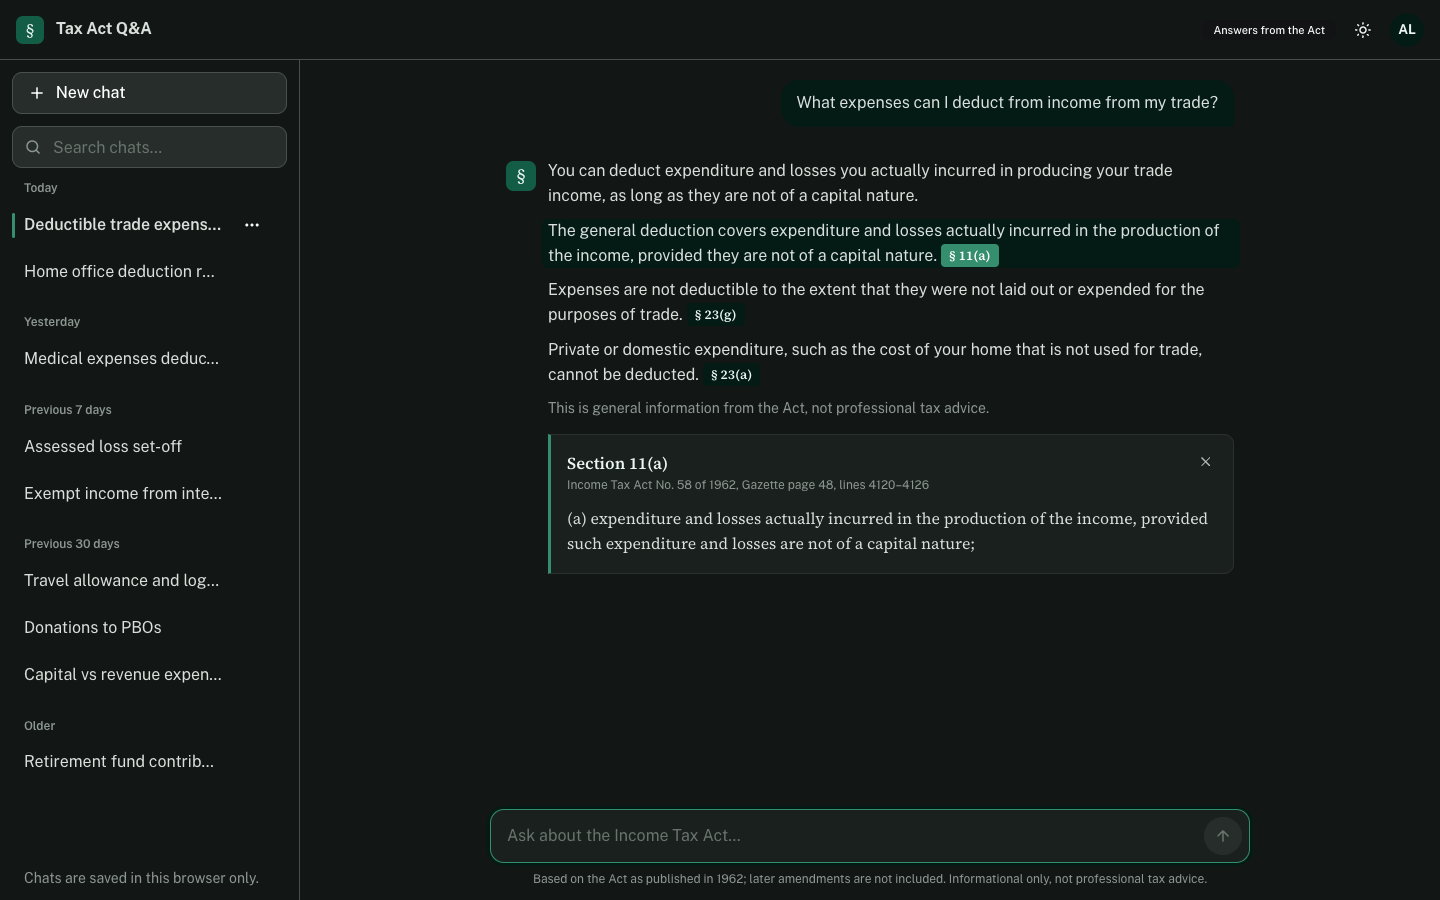
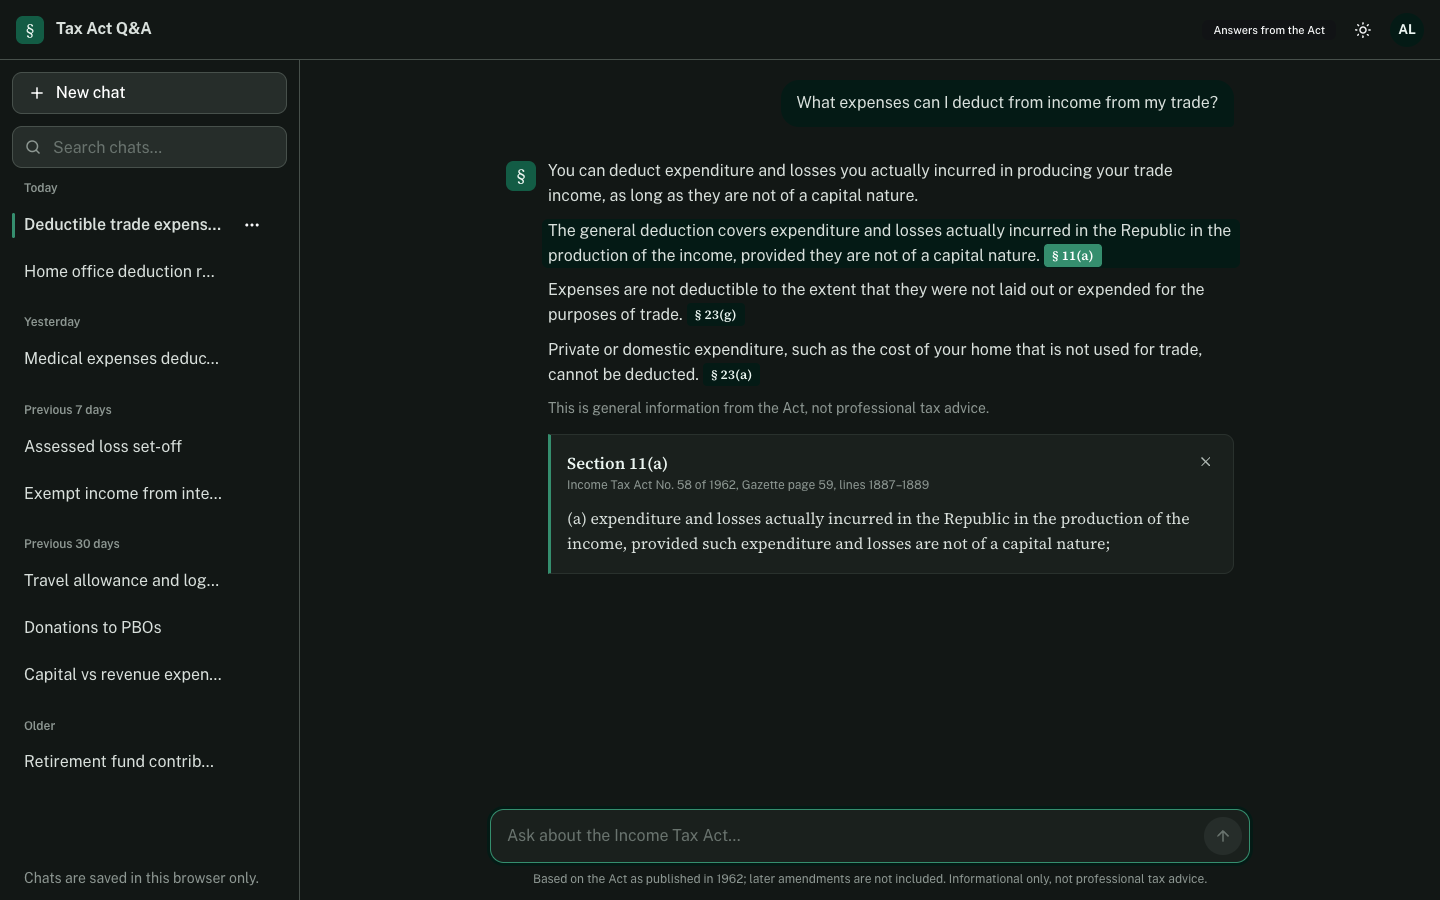
Quote section 11(a) as published in 1962
The login page quoted today's amended wording of the general deduction
formula; the app answers from the Act as published in 1962, which reads
"actually incurred in the Republic in the production of the income".
Screenshots retaken with the corrected wording and real line numbers.

Changed region(s): [[0.375, 0.56, 0.8438, 0.6222], [0.375, 0.2489, 0.8438, 0.3111], [0.5938, 0.5289, 0.625, 0.56]]

diff --git a/frontend/src/pages/LoginPage.tsx b/frontend/src/pages/LoginPage.tsx
@@ -41,8 +41,8 @@ export default function LoginPage() {
         <figure className={classes.quote}>
           <div className={classes.quoteSection}>Section 11(a)</div>
           <blockquote className={classes.quoteText}>
-            “expenditure and losses actually incurred in the production of the income, provided such expenditure
-            and losses are not of a capital nature”
+            “expenditure and losses actually incurred in the Republic in the production of the income, provided
+            such expenditure and losses are not of a capital nature”
           </blockquote>
         </figure>
         <p className={classes.statuteNote}>
